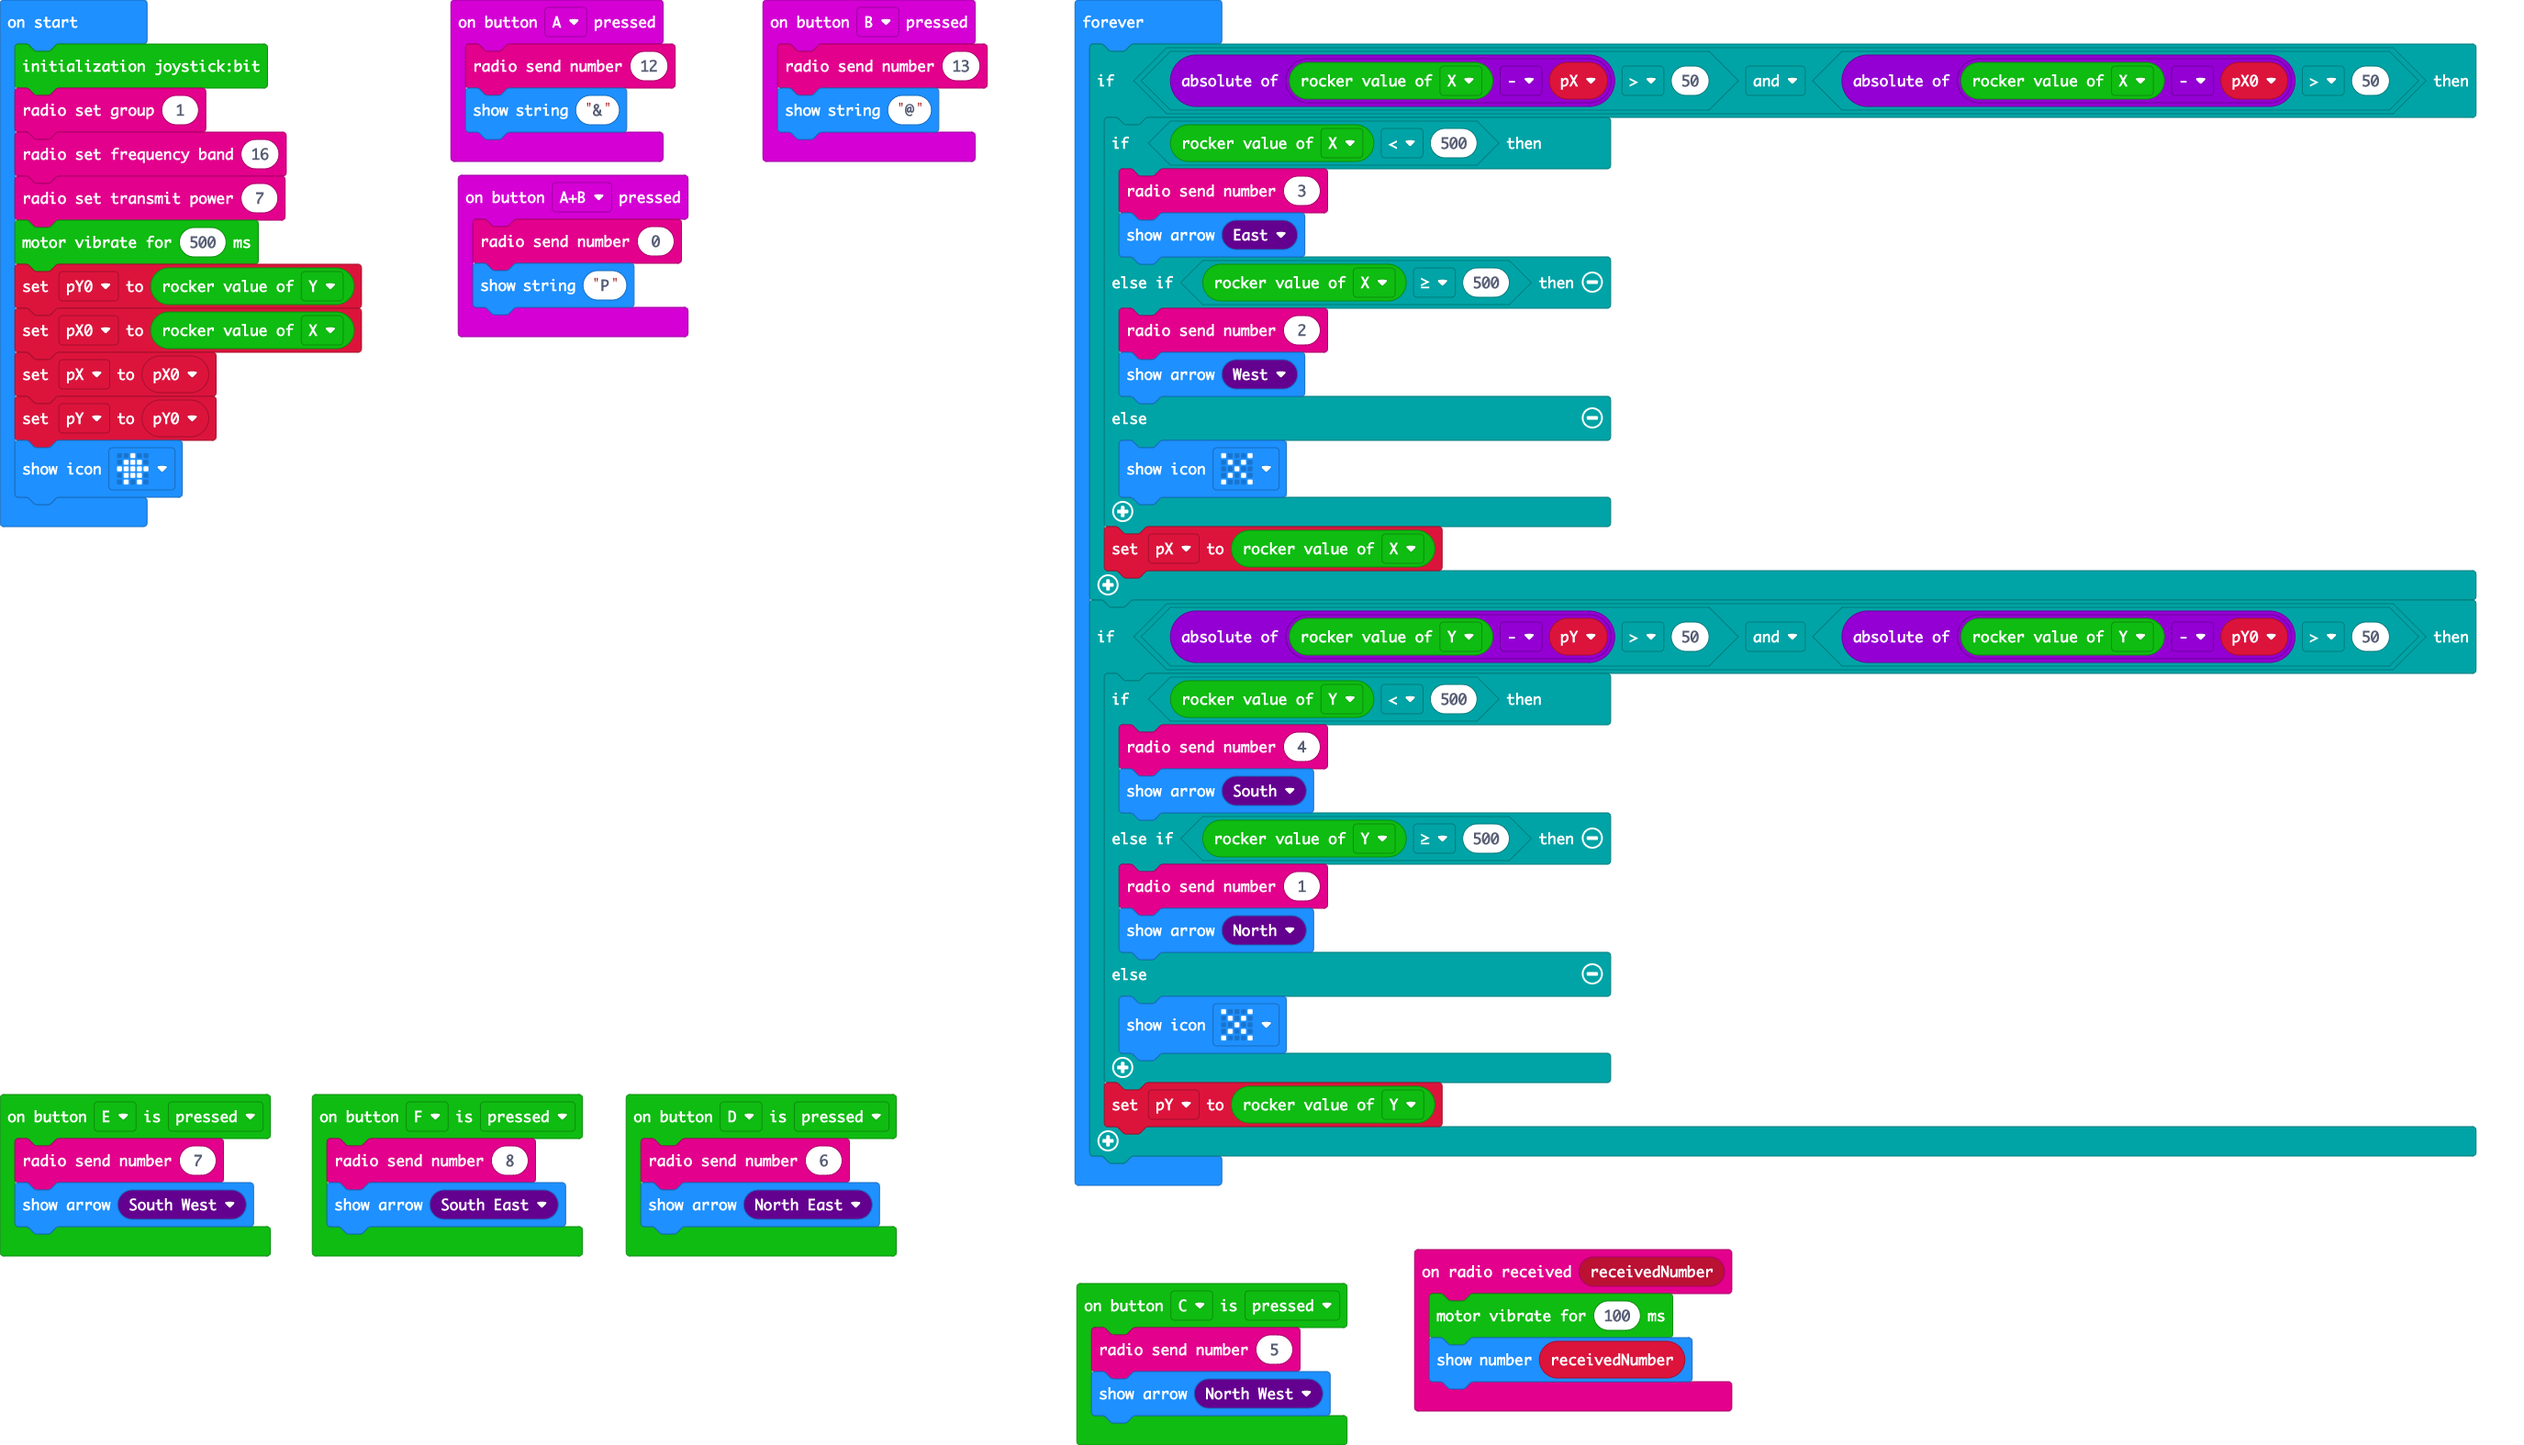
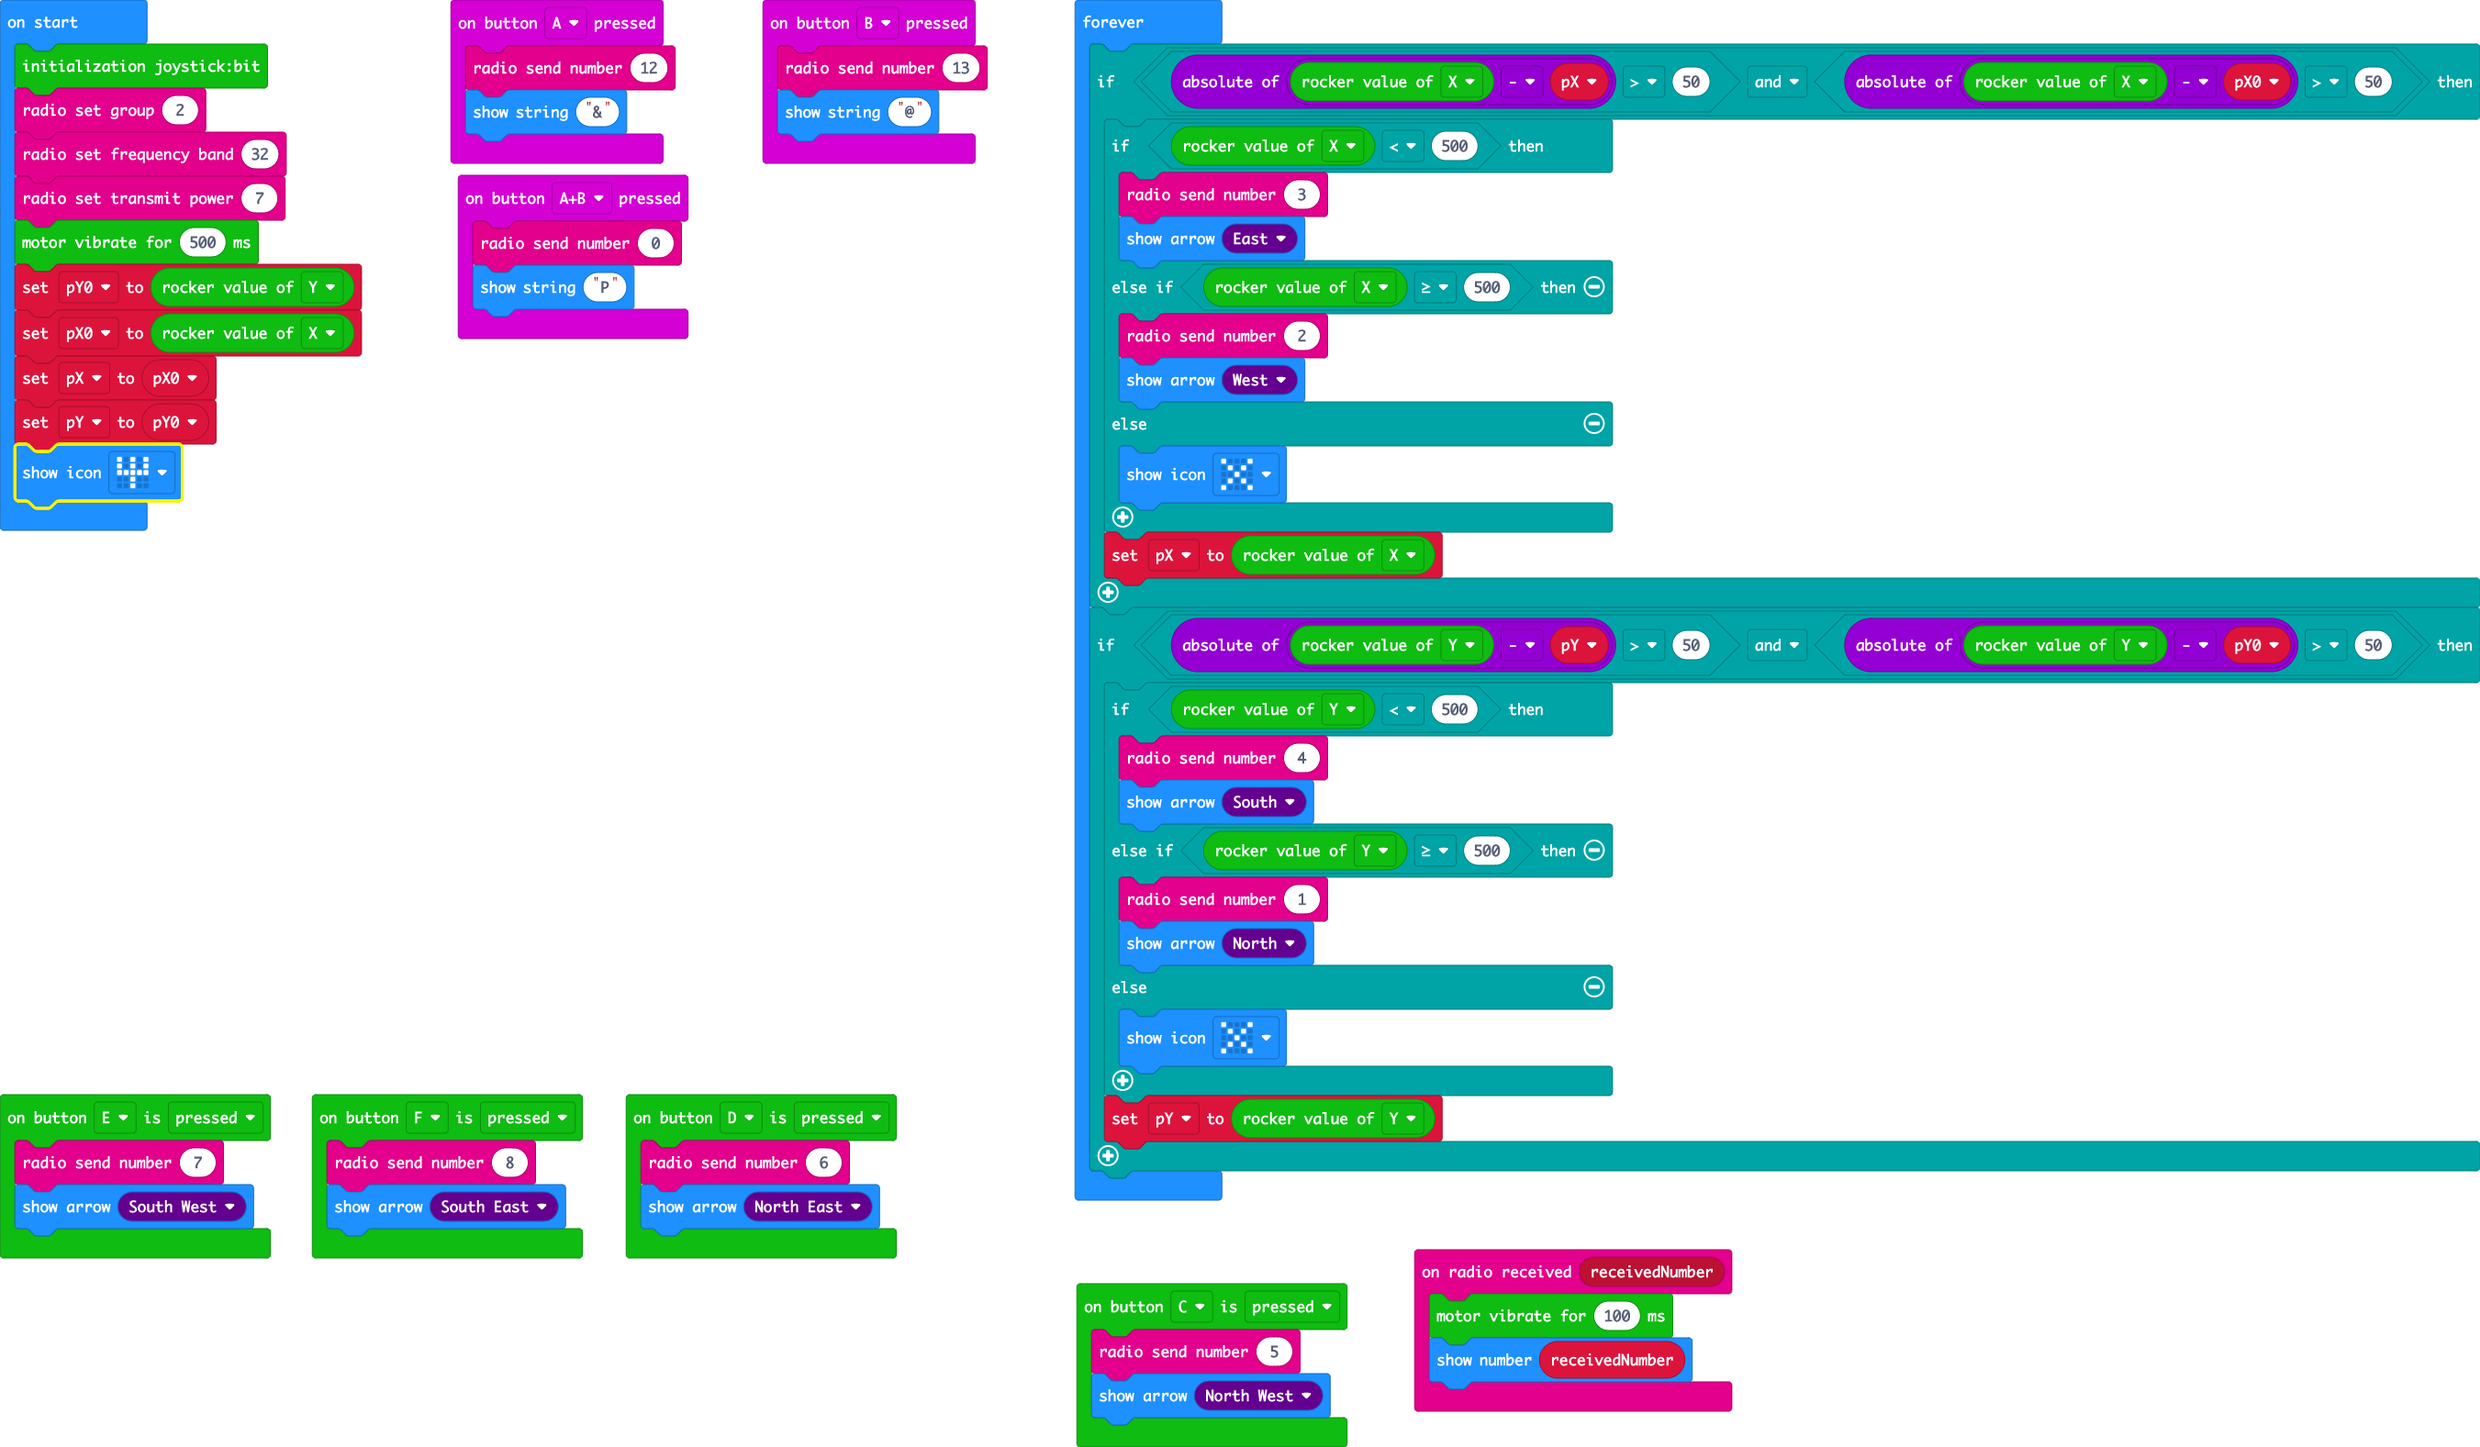
Update pxt.json, main.blocks, main.ts

Changed region(s): [[0.0, 0.0, 1.0, 0.84], [0.4041, 0.84, 0.715, 1.0], [0.0, 0.7467, 0.3731, 0.8711]]

diff --git a/main.ts b/main.ts
@@ -31,15 +31,15 @@ joystickbit.onButtonEvent(joystickbit.JoystickBitPin.P12, joystickbit.ButtonType
     basic.showArrow(ArrowNames.NorthWest)
 })
 joystickbit.initJoystickBit()
-radio.setGroup(1)
-radio.setFrequencyBand(16)
+radio.setGroup(2)
+radio.setFrequencyBand(32)
 radio.setTransmitPower(7)
 joystickbit.Vibration_Motor(500)
 let pY0 = joystickbit.getRockerValue(joystickbit.rockerType.Y)
 let pX0 = joystickbit.getRockerValue(joystickbit.rockerType.X)
 let pX = pX0
 let pY = pY0
-basic.showIcon(IconNames.House)
+basic.showIcon(IconNames.Pitchfork)
 basic.forever(function () {
     if (Math.abs(joystickbit.getRockerValue(joystickbit.rockerType.X) - pX) > 50 && Math.abs(joystickbit.getRockerValue(joystickbit.rockerType.X) - pX0) > 50) {
         if (joystickbit.getRockerValue(joystickbit.rockerType.X) < 500) {
